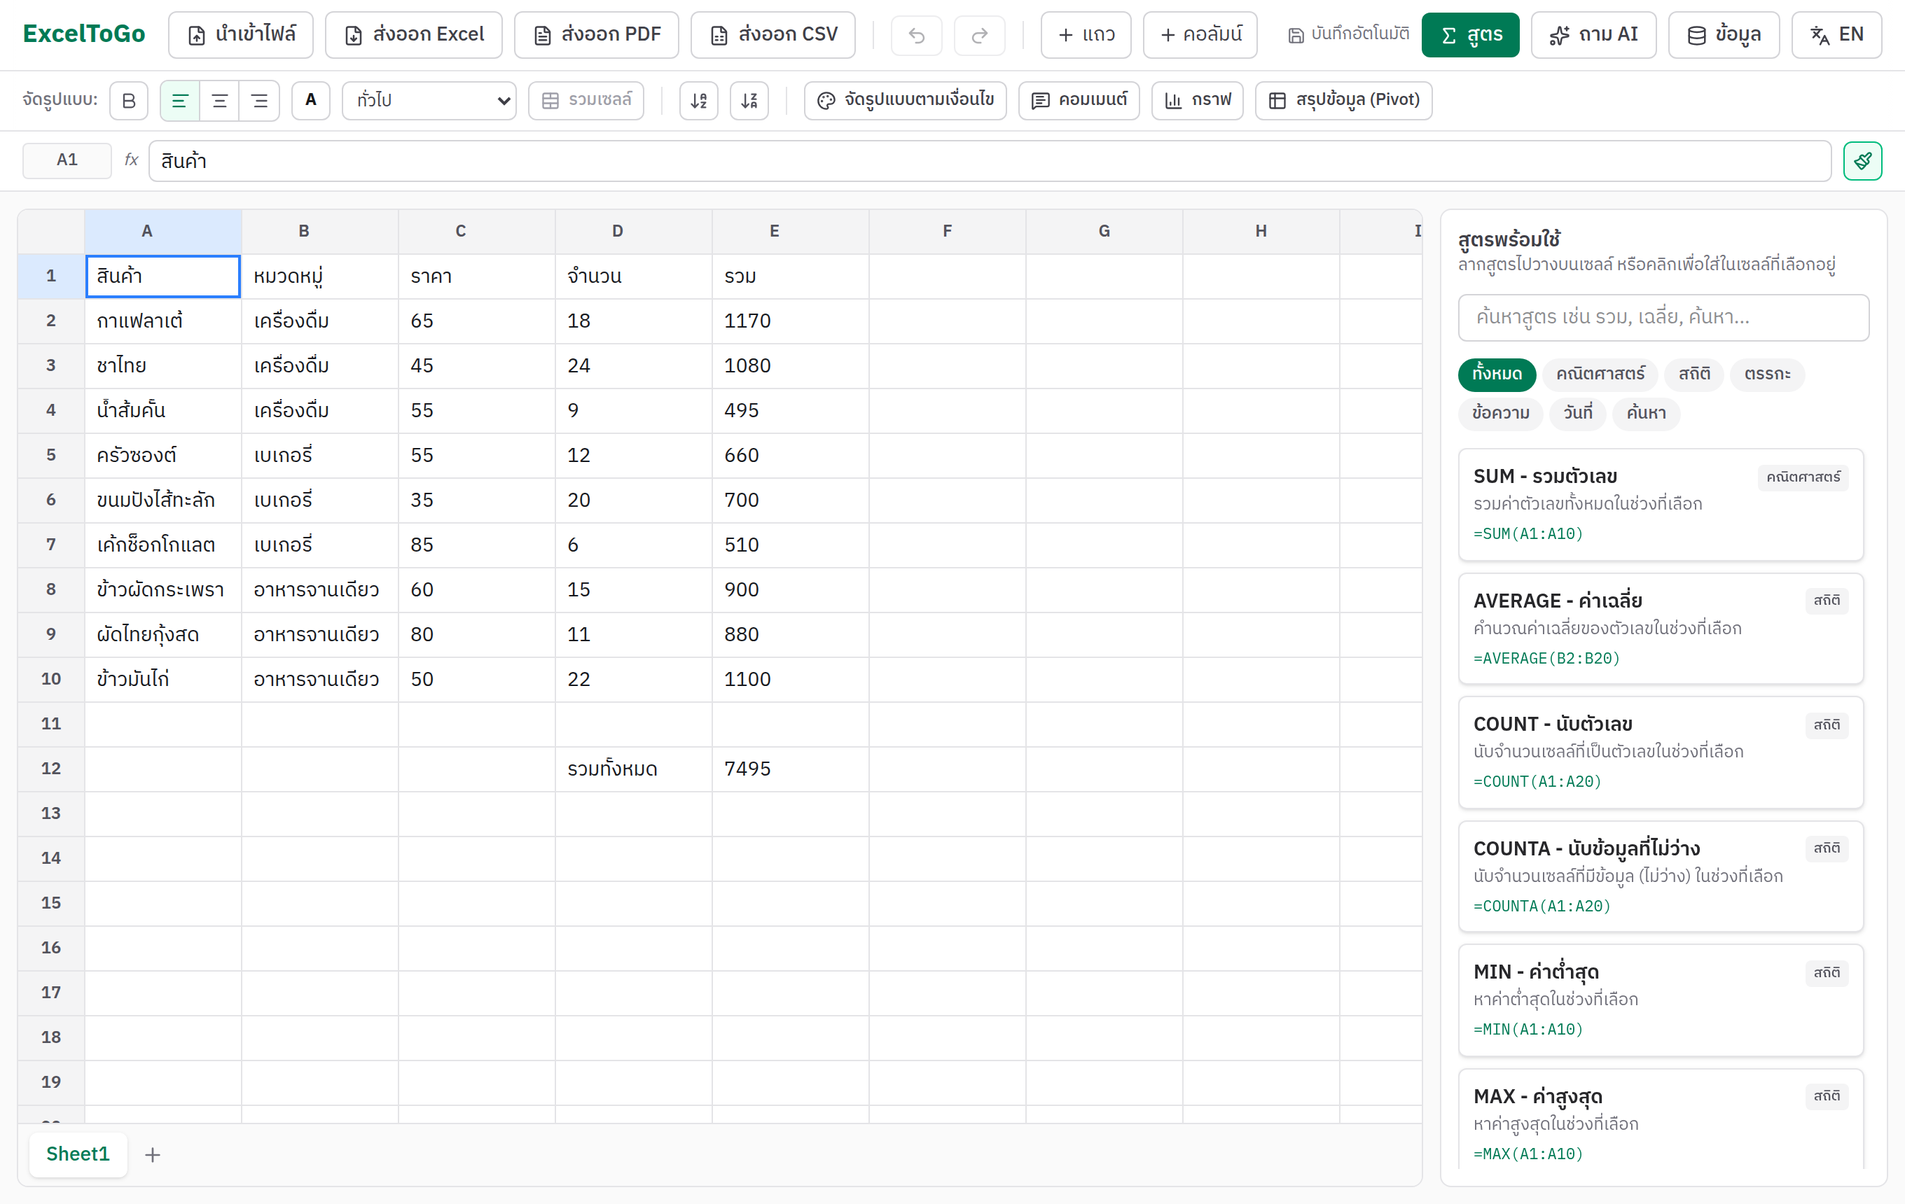
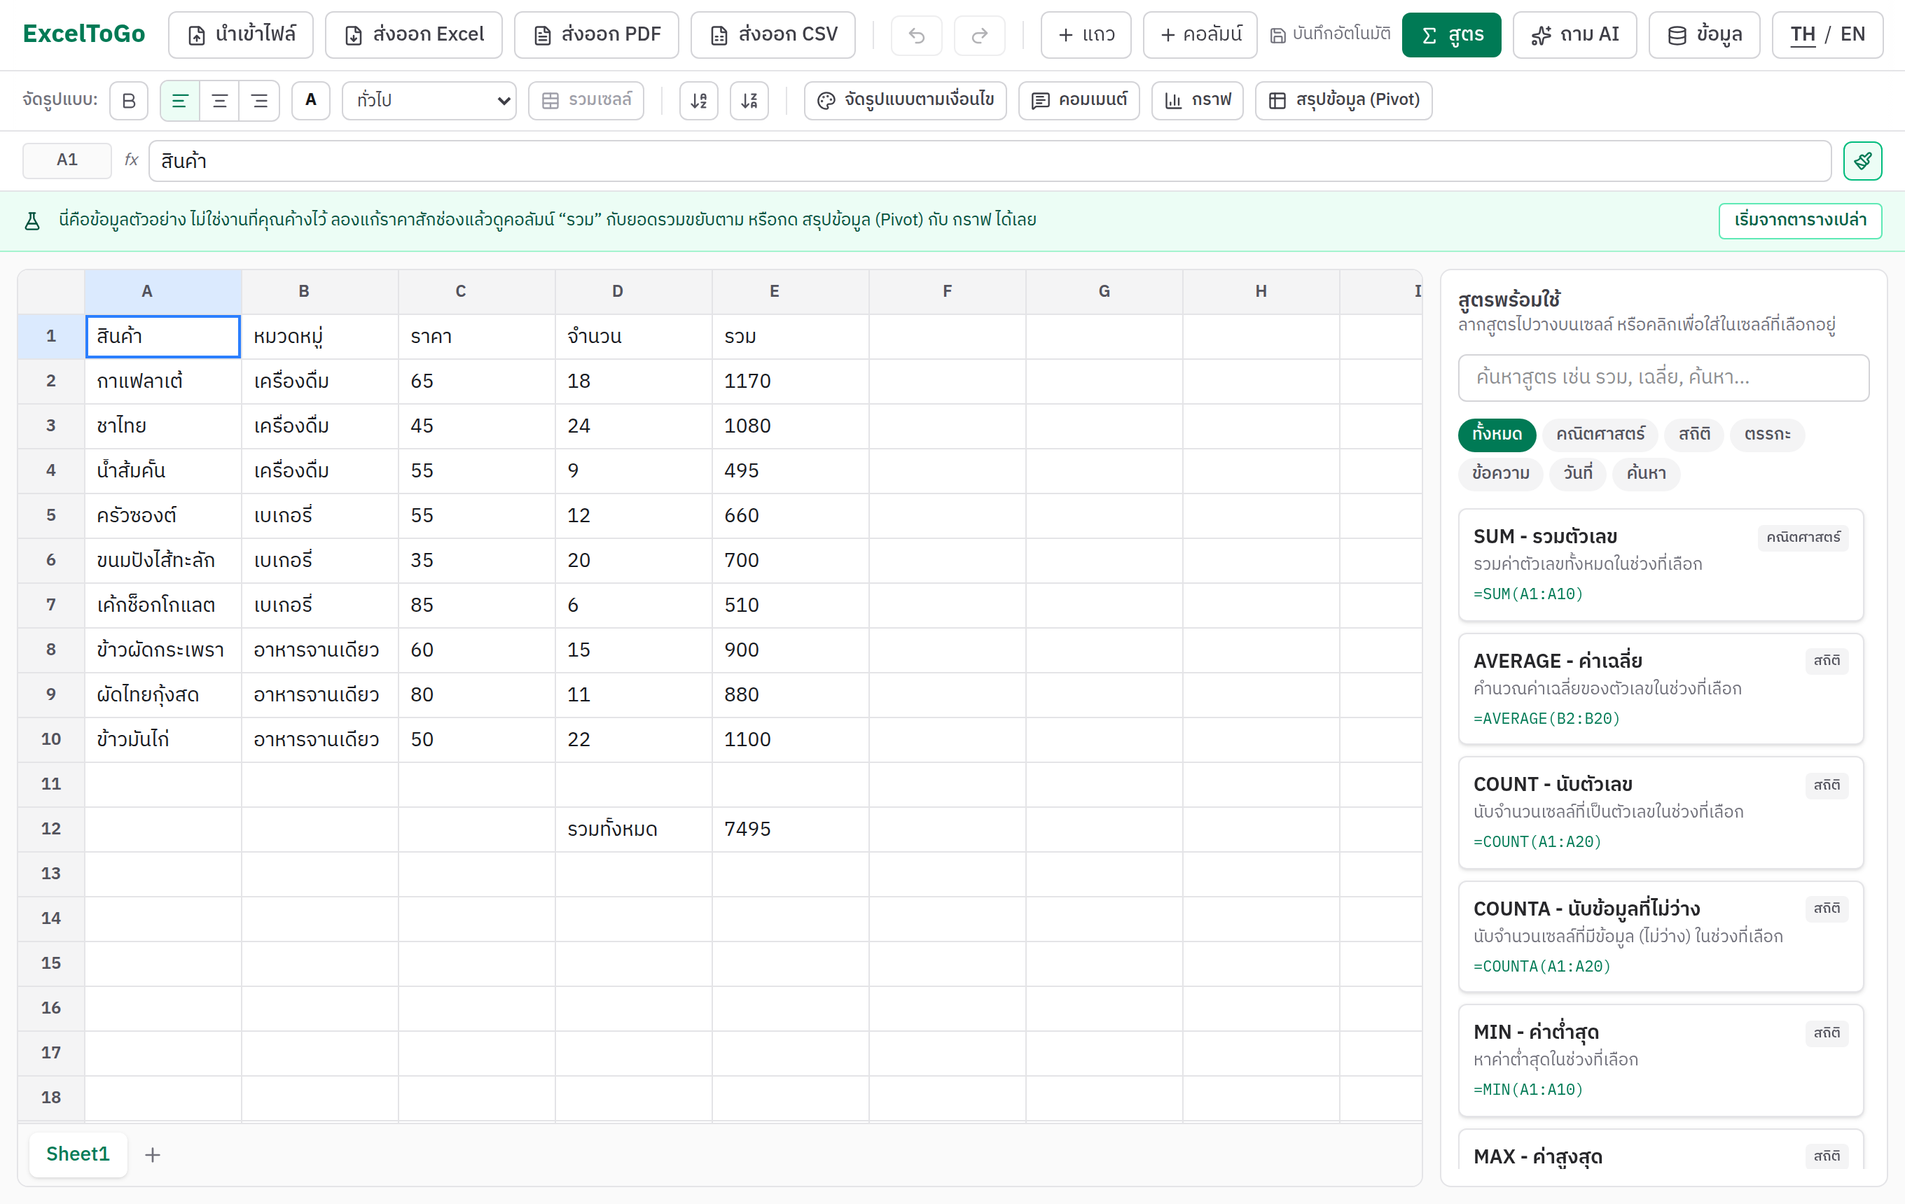
Say that the sample data is sample data
"ทำไมเปิดแอพต้องมีข้อมูลค้าง" — why does the app open with data left over.
That was the first person to look at it fresh, and they were reading the
screen correctly: nine rows of somebody's coffee shop, no explanation, and
the only bar on screen saying "your data is kept in this browser", which
reads as a claim that the rows belong to you.

The seed itself stays. An empty grid teaches a first-time visitor nothing
when they press Pivot or Chart, and every total in the sample is a formula,
so changing one price demonstrates the engine in a single edit. What was
missing was the sentence saying so, and a way out for someone who came to do
real work.

A green bar now says it is sample data and offers "start from a blank
sheet". It has no dismiss button because it does not need one: it retires
itself the moment anything is touched, which is the same moment the sentence
stops being true. While it shows, the autosave bar does not — each is honest
only in its own half of that split.

"Touched" is object identity against the sheet the store started with, not a
comparison of cell contents. Every action here replaces the sheet immutably,
so formatting, a chart, an import, or rehydrating your own saved work all
register — where a content comparison would call a workbook untouched after
somebody had just made a chart in it, and then throw the chart away.

Checked at phone width rather than assumed. The first version was 78px tall
[…]

diff --git a/src/store/sampleNotice.test.ts b/src/store/sampleNotice.test.ts
@@ -1,0 +1,73 @@
+import { beforeEach, describe, expect, it } from "vitest";
+import { singleCellSelection } from "@/types/sheet-ui";
+import { selectShowingSample, useSheetStore } from "./sheetStore";
+
+/**
+ * The rule the sample banner depends on: it is shown while — and only while — the workbook is
+ * still exactly what the app opened with. Getting this wrong in either direction is a real cost:
+ * left showing, it calls someone's own work "sample data"; retired too early, the first thing a
+ * visitor sees is unexplained data in a grid, which is what prompted the banner in the first place.
+ */
+const fresh = useSheetStore.getState();
+
+beforeEach(() => {
+  useSheetStore.setState({ sheets: fresh.sheets, activeSheetId: fresh.activeSheetId });
+});
+
+describe("while nothing has been touched", () => {
+  it("reports the sample as showing", () => {
+    expect(selectShowingSample(useSheetStore.getState())).toBe(true);
+  });
+
+  it("the sample actually holds data worth pressing Pivot on", () => {
+    // The banner tells people to try it; an empty sheet would make that a lie.
+    const sheet = useSheetStore.getState().sheets[0].sheet;
+    const filled = sheet.cells.flat().filter(Boolean).length;
+    expect(filled).toBeGreaterThan(40);
+  });
+});
+
+describe("as soon as anything changes", () => {
+  it("retires once a cell is typed into", () => {
+    useSheetStore.getState().setCellRaw(1, 2, "100");
+    expect(selectShowingSample(useSheetStore.getState())).toBe(false);
+  });
+
+  it("retires on a change that leaves every cell's content alone", () => {
+    // Identity, not content: formatting and charts leave the cells as they were, and treating the
+    // workbook as untouched afterwards would let "start blank" throw away real work.
+    useSheetStore.getState().addRow();
+    expect(selectShowingSample(useSheetStore.getState())).toBe(false);
+  });
+
+  it("retires once a second sheet exists", () => {
+    useSheetStore.getState().addSheet();
+    expect(selectShowingSample(useSheetStore.getState())).toBe(false);
+  });
+});
+
+describe("starting from a blank sheet", () => {
+  it("leaves one empty sheet and no sample content", () => {
+    useSheetStore.getState().startBlank();
+    const s = useSheetStore.getState();
+    expect(s.sheets).toHaveLength(1);
+    expect(s.sheets[0].sheet.cells.flat().filter(Boolean)).toHaveLength(0);
+  });
+
+  it("retires the banner, so it cannot offer to clear an already-blank sheet", () => {
+    useSheetStore.getState().startBlank();
+    expect(selectShowingSample(useSheetStore.getState())).toBe(false);
+  });
+
+  it("does not carry the old sheet's selection onto the new one", () => {
+    // The new tab gets a new id, so `selectionBySheetId` has no entry for it and the default
+    // applies. Asserted rather than assumed: a stale selection pointing past the end of a smaller
+    // sheet is the classic way this kind of "replace everything" action goes wrong.
+    useSheetStore.getState().setSelection(singleCellSelection(8, 4));
+    const before = useSheetStore.getState().activeSheetId;
+    useSheetStore.getState().startBlank();
+    const s = useSheetStore.getState();
+    expect(s.activeSheetId).not.toBe(before);
+    expect(s.selectionBySheetId[s.activeSheetId]).toBeUndefined();
+  });
+});

diff --git a/src/i18n/th.ts b/src/i18n/th.ts
@@ -117,7 +117,7 @@ export const th: Messages = {
     },
   },
   landing: {
-    eyebrow: "ไม่ต้องจำสูตร · เอนจินคำนวณเขียนเอง · 666 เทสต์",
+    eyebrow: "ไม่ต้องจำสูตร · เอนจินคำนวณเขียนเอง · 674 เทสต์",
     headline: "พิมพ์เป็นภาษาไทย แล้วได้สูตร Excel ที่ใช้ได้จริง",
     subheadline:
       "พิมพ์ว่า “รวมยอดขายเฉพาะสาขาเหนือ” แล้วได้สูตรกลับมาพร้อมคำอธิบายว่ามันทำอะไร กดปุ่มเดียวใส่ลงเซลล์ ไม่ต้องจำว่า SUMIF รับพารามิเตอร์อะไรก่อนหลัง — หรือถ้าไม่อยากพิมพ์ เลือกจากสูตรพร้อมใช้ 32 แบบ แล้วลากเลือกช่วงเซลล์แทนการพิมพ์ที่อยู่เอง",
@@ -197,7 +197,7 @@ export const th: Messages = {
     stats: [
       { value: "32", label: "สูตรพร้อมใช้" },
       { value: "49", label: "ฟังก์ชันในเอนจิน" },
-      { value: "666", label: "เทสต์อัตโนมัติ" },
+      { value: "674", label: "เทสต์อัตโนมัติ" },
       { value: "103", label: "เทสต์ด้านความปลอดภัย" },
       { value: "0", label: "ไลบรารีคำนวณสูตร" },
     ],
@@ -358,6 +358,11 @@ export const th: Messages = {
       }
     },
     orderNote: "กฎล่างทับกฎบนเมื่อชนกัน",
+  },
+  sampleNotice: {
+    text: "นี่คือข้อมูลตัวอย่าง ไม่ใช่งานที่คุณค้างไว้",
+    tip: "ลองแก้ราคาสักช่องแล้วดูคอลัมน์ “รวม” กับยอดรวมขยับตาม หรือกด สรุปข้อมูล (Pivot) กับ กราฟ ได้เลย",
+    startBlank: "เริ่มจากตารางเปล่า",
   },
   storageNotice: {
     text: "ข้อมูลของคุณถูกเก็บไว้ในเบราว์เซอร์เครื่องนี้เท่านั้น ไม่ได้ส่งขึ้นเซิร์ฟเวอร์ — ถ้าล้างข้อมูลเบราว์เซอร์หรือเปลี่ยนเครื่อง งานจะหายไป กด \"ส่งออก Excel\" เก็บไฟล์ไว้ด้วยนะครับ",

diff --git a/src/app/app/page.tsx b/src/app/app/page.tsx
@@ -15,12 +15,13 @@ import ChartPanel from "@/features/grid/ChartPanel";
 import PivotPanel from "@/features/grid/PivotPanel";
 import CloudPanel from "@/features/cloud/CloudPanel";
 import StorageNotice from "@/features/grid/StorageNotice";
+import SampleNotice from "@/features/grid/SampleNotice";
 import PivotNotice from "@/features/grid/PivotNotice";
 import DataPicker from "@/features/data/DataPicker";
 import SkipLink from "@/features/a11y/SkipLink";
 import { X } from "lucide-react";
 import { useLiveDataPolling } from "@/features/data/useLiveDataPolling";
-import { useClipboardShortcuts, useHydrateSheetStore, useSheetStore, useUndoRedoShortcuts } from "@/store/sheetStore";
+import { selectShowingSample, useClipboardShortcuts, useHydrateSheetStore, useSheetStore, useUndoRedoShortcuts } from "@/store/sheetStore";
 import { useHydrateLocaleStore } from "@/store/localeStore";
 import { useT } from "@/i18n";
 import { useEffect } from "react";
@@ -32,6 +33,7 @@ export default function Home() {
   useUndoRedoShortcuts();
   useClipboardShortcuts();
   useLiveDataPolling();
+  const showingSample = useSheetStore(selectShowingSample);
 
   // The panel covers the whole screen on a phone, so leaving it open by default meant a visitor
   // arriving from a phone saw the formula list and not one cell of the spreadsheet. Closing it on
@@ -56,7 +58,7 @@ export default function Home() {
       <FormatBar />
       <FormulaBar />
       <TemplateBar />
-      <StorageNotice />
+      {showingSample ? <SampleNotice /> : <StorageNotice />}
       <PivotNotice />
       <div className="flex min-h-0 flex-1 gap-3 p-2 sm:p-3">
         <main id="main-content" tabIndex={-1} className="flex min-w-0 flex-1 flex-col overflow-hidden rounded-lg border border-zinc-200 bg-white outline-none">

diff --git a/src/store/sheetStore.ts b/src/store/sheetStore.ts
@@ -169,6 +169,9 @@ interface SheetState {
 
   setActiveSheet: (id: string) => void;
   addSheet: () => void;
+  /** Throws away the sample workbook and starts from one empty sheet. Only reachable while the
+   *  sample is untouched, so there is nothing of the user's to lose. */
+  startBlank: () => void;
   renameSheet: (id: string, name: string) => void;
   deleteSheet: (id: string) => void;
 
@@ -367,6 +370,20 @@ type PersistedSlice = Pick<SheetState, "sheets" | "activeSheetId">;
 
 const initialTab = newTab("Sheet1", seedSample());
 
+/**
+ * Is the workbook still exactly what the app opened with — the sample, untouched?
+ *
+ * Object identity, not a content comparison. Every action here replaces the sheet immutably, so
+ * anything a person does — typing, formatting, a chart, a pivot, an import, rehydrating their own
+ * saved work from localStorage — produces a different object. Comparing content would miss all of
+ * those that leave the cells alone, and "start from a blank sheet" would then quietly throw away a
+ * chart somebody had just made.
+ */
+const INITIAL_SHEET = initialTab.sheet;
+export function selectShowingSample(s: SheetState): boolean {
+  return s.sheets.length === 1 && s.sheets[0].sheet === INITIAL_SHEET;
+}
+
 export const useSheetStore = create<SheetState>()(
   persist(
     temporal(
@@ -391,6 +408,11 @@ export const useSheetStore = create<SheetState>()(
           const s = get();
           const tab = newTab(`Sheet${s.sheets.length + 1}`);
           set({ sheets: [...s.sheets, tab], activeSheetId: tab.id });
+        },
+
+        startBlank: () => {
+          const tab = newTab("Sheet1");
+          set({ sheets: [tab], activeSheetId: tab.id });
         },
 
         renameSheet: (id, name) => {

diff --git a/src/features/grid/SampleNotice.tsx b/src/features/grid/SampleNotice.tsx
@@ -1,0 +1,37 @@
+"use client";
+
+import { FlaskConical } from "lucide-react";
+import { useSheetStore } from "@/store/sheetStore";
+import { useT } from "@/i18n";
+
+/**
+ * Says, once and where it will be read, that the grid is showing sample data.
+ *
+ * The app opens on a seeded workbook on purpose: a first-time visitor who presses Pivot or Chart on
+ * an empty sheet learns nothing, and every total in the sample is a formula, so changing one price
+ * demonstrates the engine in a single edit. But nothing said so, and the only banner on screen was
+ * the autosave one — "your data is kept in this browser" — which reads as a claim that the sample
+ * belongs to you. The first person to look at it fresh asked why the app had data left over.
+ *
+ * It needs no dismiss button: it disappears the moment anything is touched, which is the same
+ * moment the sentence stops being true.
+ */
+export default function SampleNotice() {
+  const t = useT();
+  const startBlank = useSheetStore((s) => s.startBlank);
+
+  return (
+    <div className="flex flex-wrap items-center gap-x-3 gap-y-1.5 border-b border-emerald-200 bg-emerald-50 px-4 py-2 text-xs text-emerald-900">
+      <FlaskConical size={14} className="shrink-0" aria-hidden />
+      <p className="min-w-0 flex-1 leading-relaxed">
+        {t.sampleNotice.text} <span className="hidden sm:inline">{t.sampleNotice.tip}</span>
+      </p>
+      <button
+        onClick={startBlank}
+        className="shrink-0 rounded border border-emerald-300 bg-white px-2.5 py-1 font-medium text-emerald-800 transition-colors hover:border-emerald-500 hover:bg-emerald-100"
+      >
+        {t.sampleNotice.startBlank}
+      </button>
+    </div>
+  );
+}

diff --git a/src/i18n/en.ts b/src/i18n/en.ts
@@ -117,7 +117,7 @@ export const en: Messages = {
     },
   },
   landing: {
-    eyebrow: "No syntax to memorise · hand-written engine · 666 tests",
+    eyebrow: "No syntax to memorise · hand-written engine · 674 tests",
     headline: "Describe what you want. Get an Excel formula that works",
     subheadline:
       "Type “total sales for the northern branch” and you get a formula back, with a sentence saying what it does — one click puts it in the cell. No remembering which argument SUMIF takes first. Or skip the typing entirely: pick from 32 ready-made formulas and drag across the cells instead of typing addresses.",
@@ -197,7 +197,7 @@ export const en: Messages = {
     stats: [
       { value: "32", label: "ready-made formulas" },
       { value: "49", label: "engine functions" },
-      { value: "666", label: "automated tests" },
+      { value: "674", label: "automated tests" },
       { value: "103", label: "security tests" },
       { value: "0", label: "formula libraries used" },
     ],
@@ -358,6 +358,11 @@ export const en: Messages = {
       }
     },
     orderNote: "A lower rule overrides one above it where they clash",
+  },
+  sampleNotice: {
+    text: "This is sample data, not something you left behind.",
+    tip: "Change a price and watch the Total column and the grand total move, or try Pivot and Chart on it.",
+    startBlank: "Start from a blank sheet",
   },
   storageNotice: {
     text: "Your work is saved in this browser only — never uploaded. Clearing your browser data or moving to another device loses it, so use \"Export Excel\" to keep a copy.",

diff --git a/src/i18n/types.ts b/src/i18n/types.ts
@@ -297,6 +297,15 @@ export interface Messages {
     describe: (test: CfTest) => string;
     orderNote: string;
   };
+  /** Shown only while the workbook is still the untouched sample, so nobody mistakes the demo
+   *  data for something they left behind. */
+  sampleNotice: {
+    text: string;
+    /** The "try this" half, hidden below `sm` — on a phone the grid is what matters, and a
+     *  four-line banner before the first row is the cost this avoids. */
+    tip: string;
+    startBlank: string;
+  };
   storageNotice: {
     /** Shown once inside the app: work lives in this browser only. The README saying so is no
      *  help to someone who has already typed an afternoon's work into the grid. */

diff --git a/src/app/opengraph-image.tsx b/src/app/opengraph-image.tsx
@@ -26,7 +26,7 @@ export default function OgImage() {
   const stats = [
     ["49", "engine functions"],
     ["32", "palette formulas"],
-    ["666", "automated tests"],
+    ["674", "automated tests"],
     ["103", "of them security"],
     ["0", "formula libraries"],
   ];

diff --git a/README.en.md b/README.en.md
@@ -26,7 +26,7 @@ Runs in your browser; your data stays on your machine.
   <img alt="Tailwind CSS" src="https://img.shields.io/badge/Tailwind_CSS-4-06B6D4?logo=tailwindcss&logoColor=white">
   <img alt="Zustand" src="https://img.shields.io/badge/Zustand-5-443E38">
   <a href="https://excel-to-go.vercel.app"><img alt="Live demo" src="https://img.shields.io/badge/▶_try_it-live_demo-2F9E44"></a>
-  <img alt="Vitest" src="https://img.shields.io/badge/tests-666%20passing-2F9E44?logo=vitest&logoColor=white">
+  <img alt="Vitest" src="https://img.shields.io/badge/tests-674%20passing-2F9E44?logo=vitest&logoColor=white">
   <img alt="CI" src="https://github.com/SuruchBoss/ExcelToGo/actions/workflows/ci.yml/badge.svg">
 </p>
 
@@ -42,7 +42,7 @@ cell/range references, relative & structural reference adjustment, circular-refe
 workbooks, conditional formatting that re-colours cells from their current values, pivot summaries over a
 selected range, and full-fidelity Excel/PDF export — where a chart exported to `.xlsx` is a real, editable chart
 bound to its cells, because the OOXML chart parts are written by hand (ExcelJS writes none). Plus optional
-bring-your-own-backend cloud save. Bilingual UI (Thai/English), 666 automated tests.
+bring-your-own-backend cloud save. Bilingual UI (Thai/English), 674 automated tests.
 
 ---
 
@@ -54,6 +54,12 @@ bring-your-own-backend cloud save. Bilingual UI (Thai/English), 666 automated te
 
 If you only have a minute — [**open the app**](https://excel-to-go.vercel.app/app) and do these three
 things in order. Nothing to install, no sign-up, and nine rows of sample data are already there.
+
+The app always opens on those nine rows: an empty grid teaches a first-time visitor nothing when they
+press Pivot or Chart, and every total in the sample is a **formula**, not a number. A green bar at the
+top says so — the first person to look at it fresh asked why the app had data left over — with a
+**Start from a blank sheet** button beside it. It retires itself the moment anything is touched, which
+is the same moment the sentence stops being true.
 
 | | Do this | What you'll see |
 |---|---|---|
@@ -190,7 +196,7 @@ Other available commands:
 | `npm run build` | Build a production bundle |
 | `npm run start` | Run the production build (run `npm run build` first) |
 | `npm run lint` | Check code quality with ESLint |
-| `npm test` | Run the 666-case Vitest suite |
+| `npm test` | Run the 674-case Vitest suite |
 | `npm run check:readme` | Check the READMEs still match the code (links/images/test count/new modules/both languages) |
 | `npm run check:a11y` | axe on both pages at 390px and 1280px, plus sideways-scroll checks (needs a build) |
 | `npm run verify` | Everything, before a push: lint → check:readme → test → build → check:a11y |
@@ -993,7 +999,7 @@ architecture behind it.
 | `@anthropic-ai/sdk` | Connects to the Claude API for the AI assistant |
 | `lucide-react` | UI icons |
 | `clsx` | Conditional className composition |
-| `vitest` | Unit tests for the formula engine, sort logic, JSON-to-table conversion, pagination, rate limiting, templates, file fidelity, conditional formatting and live blocks (666 cases) |
+| `vitest` | Unit tests for the formula engine, sort logic, JSON-to-table conversion, pagination, rate limiting, templates, file fidelity, conditional formatting and live blocks (674 cases) |
 
 > **Note:** No off-the-shelf formula library (e.g. HyperFormula) is used — the **formula engine is hand-written**
 > (tokenizer, parser, evaluator, and functions) to keep full control over its behavior. See
@@ -1556,7 +1562,7 @@ the framework bundle itself, which isn't a trade worth making here. Written down
 ## 🧪 Testing
 
 ```bash
-npm test      # 666 cases across 38 files, via Vitest
+npm test      # 674 cases across 39 files, via Vitest
 ```
 
 Testing is focused on the **formula engine, sort logic, JSON-to-table conversion, pagination, rate-limit backoff, Excel templates and live-block placement** — pure functions with no React/DOM dependency, so
